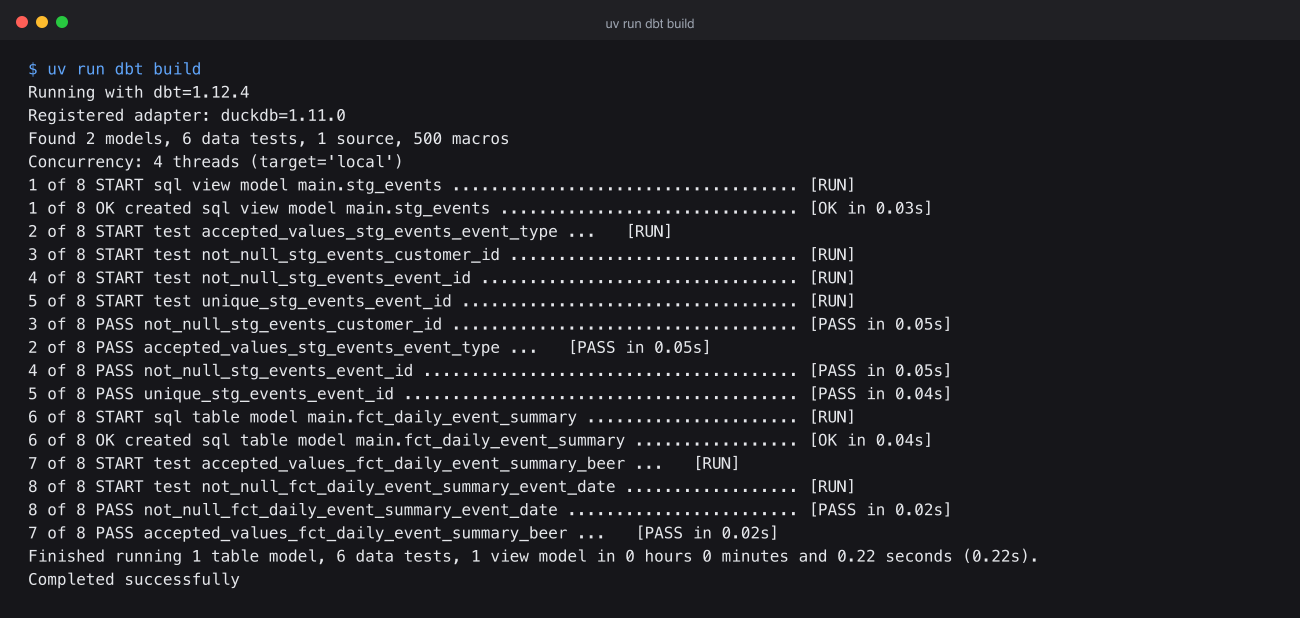
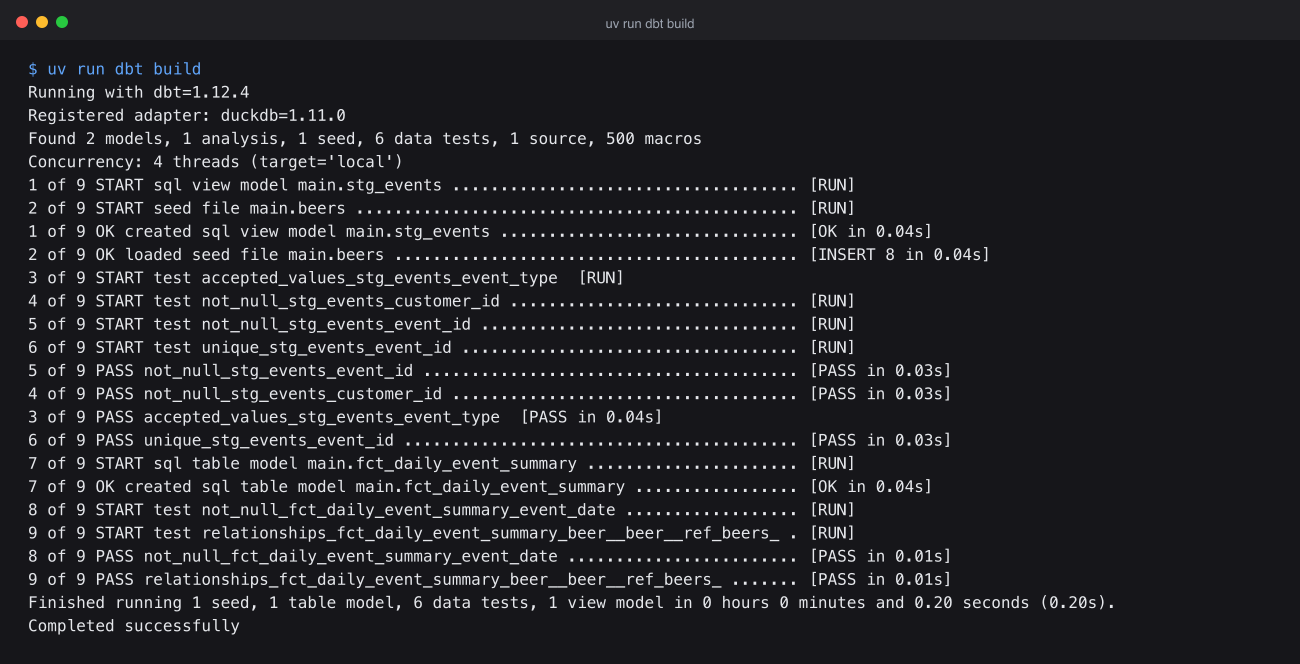
docs: keep analyses and seeds in part 2

Changed region(s): [[0.0, 0.0922, 0.8615, 0.9531], [0.4615, 0.0307, 0.5231, 0.0615], [0.4923, 0.4304, 0.5231, 0.4612]]

diff --git a/docs/2.dbt.md b/docs/2.dbt.md
@@ -9,16 +9,19 @@ Time to increment to the next level now we have completed [part 1](./1.duckdb_ha
   - [Initialising DBT Project](#initialising-dbt-project)
     - [DBT Directories and Files I need to Know Right Now](#dbt-directories-and-files-i-need-to-know-right-now)
       - [Models](#models)
+      - [Analyses](#analyses)
+      - [Seeds](#seeds)
       - [dbt\_project.yml](#dbt_projectyml)
       - [profiles.yml](#profilesyml)
   - [Models Setup](#models-setup)
     - [Stable Source with Dynamic Location](#stable-source-with-dynamic-location)
     - [Create Stable Views](#create-stable-views)
+    - [Seeding the Beer List](#seeding-the-beer-list)
     - [Add Model Tests](#add-model-tests)
   - [Local Dev Loop](#local-dev-loop)
   - [Harlequin on a Real Database](#harlequin-on-a-real-database)
   - [When Tests Bite](#when-tests-bite)
-  - [hsql on the Mart](#hsql-on-the-mart)
+  - [Saved Analyses with hsql](#saved-analyses-with-hsql)
   - [Shortcomings and Next Steps](#shortcomings-and-next-steps)
 
 ## Pre-Requisites
@@ -80,11 +83,13 @@ If yours looks like this, dbt init did its job.
 
 ### DBT Directories and Files I need to Know Right Now
 
-Keeping in the spirit of simplicity, we're going to focus on only what we need right now to get going. Delete the analyses, macros, seeds, snapshots and tests directories, the starter README, and the `models/example` folder (its starter tests fail out of the box, so it has to go). You can look at the [dbt docs](https://docs.getdbt.com/docs/build/projects) for more information on what they're all for. Your dbt directory structure should look something like this now:
+Keeping in the spirit of simplicity, we're going to focus on only what we need right now to get going. Delete the macros, snapshots and tests directories, the starter README, and the `models/example` folder (its starter tests fail out of the box, so it has to go). We'll keep analyses and seeds as they each earn their place in our beer shop. You can look at the [dbt docs](https://docs.getdbt.com/docs/build/projects) for more information on what everything is for. Your dbt directory structure should look something like this now:
 
 ```txt
 analytics_engineering/
+├── analyses/
 ├── models/
+├── seeds/
 └── dbt_project.yml
 ```
 
@@ -93,6 +98,14 @@ That's much more like it.
 #### Models
 
 This is where our SQL lives. Every `.sql` file in here is a model - a single `select` statement that dbt turns into a view or a table named after the file. The yaml files sitting next to them describe the models and hold their tests.
+
+#### Analyses
+
+The home for queries you want to keep but never want dbt to build. They can use `ref()` like a model, and `dbt compile` turns them into plain SQL you can run yourself. Remember the Ctrl + S tip from part 1 about saving your harlequin queries? This is a better place for them, as the table names resolve for whatever environment you're pointing at.
+
+#### Seeds
+
+Small CSV files of reference data that dbt loads into a table for you. Think lookups that rarely change, like a list of country codes or, in our case, the beers we sell. Not for raw data - our events stay in parquet where they belong.
 
 #### dbt_project.yml
 
@@ -138,18 +151,25 @@ This will become important for when we want to deploy to a new environment - com
 
 ## Models Setup
 
-Our models directory should end up looking something like this for the demo:
+Our dbt project should end up looking something like this for the demo:
 
 ```txt
-models/
-├── sources/
-│   └── raw_sources.yml
-├── staging/
-│   ├── stg_events.sql
-│   └── staging.yml
-└── marts/
-    ├── fct_daily_event_summary.sql
-    └── marts.yml
+analytics_engineering/
+├── analyses/
+│   └── beer_revenue.sql
+├── models/
+│   ├── sources/
+│   │   └── raw_sources.yml
+│   ├── staging/
+│   │   ├── stg_events.sql
+│   │   └── staging.yml
+│   └── marts/
+│       ├── fct_daily_event_summary.sql
+│       └── marts.yml
+├── seeds/
+│   └── beers.csv
+├── dbt_project.yml
+└── profiles.yml
 ```
 
 ### Stable Source with Dynamic Location
@@ -207,6 +227,24 @@ Look familiar? These are our two part 1 SQL files with the `COPY ... TO` plumbin
 
 We can see the chain of dynamic locations and variable referenced object names really becoming useful now.
 
+### Seeding the Beer List
+
+Our shop only sells eight beers, and we want to know straight away if a beer turns up in the data that isn't one of ours. In seeds add the file beers.csv:
+
+```csv
+beer
+Cwtch
+Stay Puft
+Clwb Tropica
+Easy Livin
+Hank
+Fubar
+Juicy
+Dutty
+```
+
+`dbt build` loads this into a `beers` table before anything that depends on it, and we can `ref('beers')` it like any other model. A real shop would pull its product catalogue from its product system as a source rather than a hand-edited CSV, but for a small list that barely changes a seed is just the ticket.
+
 ### Add Model Tests
 
 In models/staging add the following code to the file staging.yml:
@@ -246,20 +284,13 @@ models:
         data_tests: [not_null]
       - name: beer
         data_tests:
-          - accepted_values:
+          - relationships:
               arguments:
-                values:
-                  - Cwtch
-                  - Stay Puft
-                  - Clwb Tropica
-                  - Easy Livin
-                  - Hank
-                  - Fubar
-                  - Juicy
-                  - Dutty
+                to: ref('beers')
+                field: beer
 ```
 
-These are dbt's built in generic tests. `not_null` and `unique` do what they say on the can, and `accepted_values` fails if a column has anything outside the list. Nulls don't count against `accepted_values`, which is handy as page views and searches don't have a beer.
+These are dbt's built in generic tests. `not_null` and `unique` do what they say on the can, and `accepted_values` fails if a column has anything outside the list. `relationships` does the same job against another table, so every beer in the mart has to exist in our seed. When a new beer launches you add a row to the CSV instead of digging through yaml. Nulls don't count against either, which is handy as page views and searches don't have a beer.
 
 ## Local Dev Loop
 
@@ -275,11 +306,11 @@ uv run dbt debug
 uv run dbt build
 ```
 
-`dbt debug` checks your profile and connection are happy. `dbt build` then runs every model and every test in dependency order - staging view, staging tests, mart table, mart tests. If a staging test fails, the mart downstream of it gets skipped rather than built on bad data.
+`dbt debug` checks your profile and connection are happy. `dbt build` then loads the seed and runs every model and every test in dependency order - seed and staging view, staging tests, mart table, mart tests. If a staging test fails, the mart downstream of it gets skipped rather than built on bad data.
 
 ![dbt build](images/02/dbt_build.png)
 
-Eight green passes. Two models and six tests in under a second, on a laptop, with no cluster in sight.
+Nine green passes. A seed, two models and six tests in under a second, on a laptop, with no cluster in sight.
 
 ## Harlequin on a Real Database
 
@@ -289,7 +320,7 @@ Now for the persistence we promised in part 1. Open harlequin against the duckdb
 uv run harlequin analytics.duckdb
 ```
 
-Open the catalog on the left and there they are in the `main` schema - `stg_events` as a view and `fct_daily_event_summary` as a table. Close harlequin, open it again, and they're still there. Lets see which beers are paying the bills:
+Open the catalog on the left and there they are in the `main` schema - `stg_events` as a view, and `fct_daily_event_summary` and our `beers` seed as tables. Close harlequin, open it again, and they're still there. Lets see which beers are paying the bills:
 
 ```sql
 select beer, sum(event_count) as purchases, round(sum(revenue),2) as revenue
@@ -309,23 +340,34 @@ One more thing before leaving harlequin open. Duckdb only lets one process write
 
 ## When Tests Bite
 
-Tests that always pass are just decoration, so lets break one. Remove `Dutty` from the beer list in `marts.yml` and build only the mart:
+Tests that always pass are just decoration, so lets break one. Remove `Dutty` from `seeds/beers.csv` and build again:
 
 ```bash
-uv run dbt build --select fct_daily_event_summary
+uv run dbt build
 ```
 
 ![dbt test fail](images/02/dbt_test_fail.png)
 
-There it is. One failure, the exact test that failed, and the compiled SQL in `target/compiled` if you want to see which rows upset it. Paste that SQL into harlequin and you'll find Dutty sitting there (quit it again afterwards, remember the lock). In a real pipeline that's a new beer launched without anyone telling the data team, and you'd rather find out here than from the finance meeting. Put Dutty back and run the build again to go green.
+There it is. One failure, the exact test that failed, and the compiled SQL in `target/compiled` if you want to see which rows upset it - every daily row with a Dutty in it. Paste that SQL into harlequin and you'll find Dutty sitting there (quit it again afterwards, remember the lock). In a real pipeline that's a new beer launched without anyone telling the data team, and you'd rather find out here than from the finance meeting. Put Dutty back in the CSV and run the build again to go green.
 
-## hsql on the Mart
+## Saved Analyses with hsql
 
-hsql from part 1 works against the duckdb file too, which is perfect for quick checks in the terminal or for an agent poking at your data:
+That beer revenue query is one we'll keep coming back to, so lets save it properly. In analyses add the file beer_revenue.sql:
+
+```sql
+select beer, sum(event_count) as purchases, round(sum(revenue),2) as revenue
+from {{ ref('fct_daily_event_summary') }}
+where event_type = 'purchase'
+group by beer
+order by revenue desc
+```
+
+dbt won't build this, but it will compile it into plain SQL with the `ref()` swapped for the real table name. hsql from part 1 works against the duckdb file too, so we can compile and run it straight from the terminal - perfect for quick checks or for an agent poking at your data:
 
 ```bash
+uv run dbt compile --select beer_revenue
 uv run hsql analytics.duckdb \
-  -c "select beer, sum(event_count) as purchases, round(sum(revenue),2) as revenue from fct_daily_event_summary where event_type = 'purchase' group by beer order by revenue desc;"
+  -c "$(cat target/compiled/analytics_engineering/analyses/beer_revenue.sql)"
 ```
 
 ![hsql mart](images/02/hsql_mart.png)
@@ -334,7 +376,7 @@ Dutty top of the pile. Can't argue with that.
 
 ## Shortcomings and Next Steps
 
-We've now got persistence, environment variables doing the heavy lifting for our source location, and tests guarding our data. All still running happily on a laptop with the delightful tools from part 1. Is this worth it for real? For a small team or a side project it's a sensible day one setup. Once more than a handful of people are writing models, CI running `dbt build` on every pull request is the next thing to add.
+We've now got persistence, environment variables doing the heavy lifting for our source location, a seeded beer list, saved analyses, and tests guarding our data. All still running happily on a laptop with the delightful tools from part 1. Is this worth it for real? For a small team or a side project it's a sensible day one setup. Once more than a handful of people are writing models, CI running `dbt build` on every pull request is the next thing to add.
 
 The obvious shortcoming is that it all still lives on my machine. In part 3 we'll point `EVENTS_LOCATION` at S3, add a new target to `profiles.yml` and get this pipeline running as a deployed job - same SQL, same tests, different environment. If you're starting fresh, create `profiles.yml` in the project from the off rather than letting `dbt init` squirrel it away in your home directory.
 
